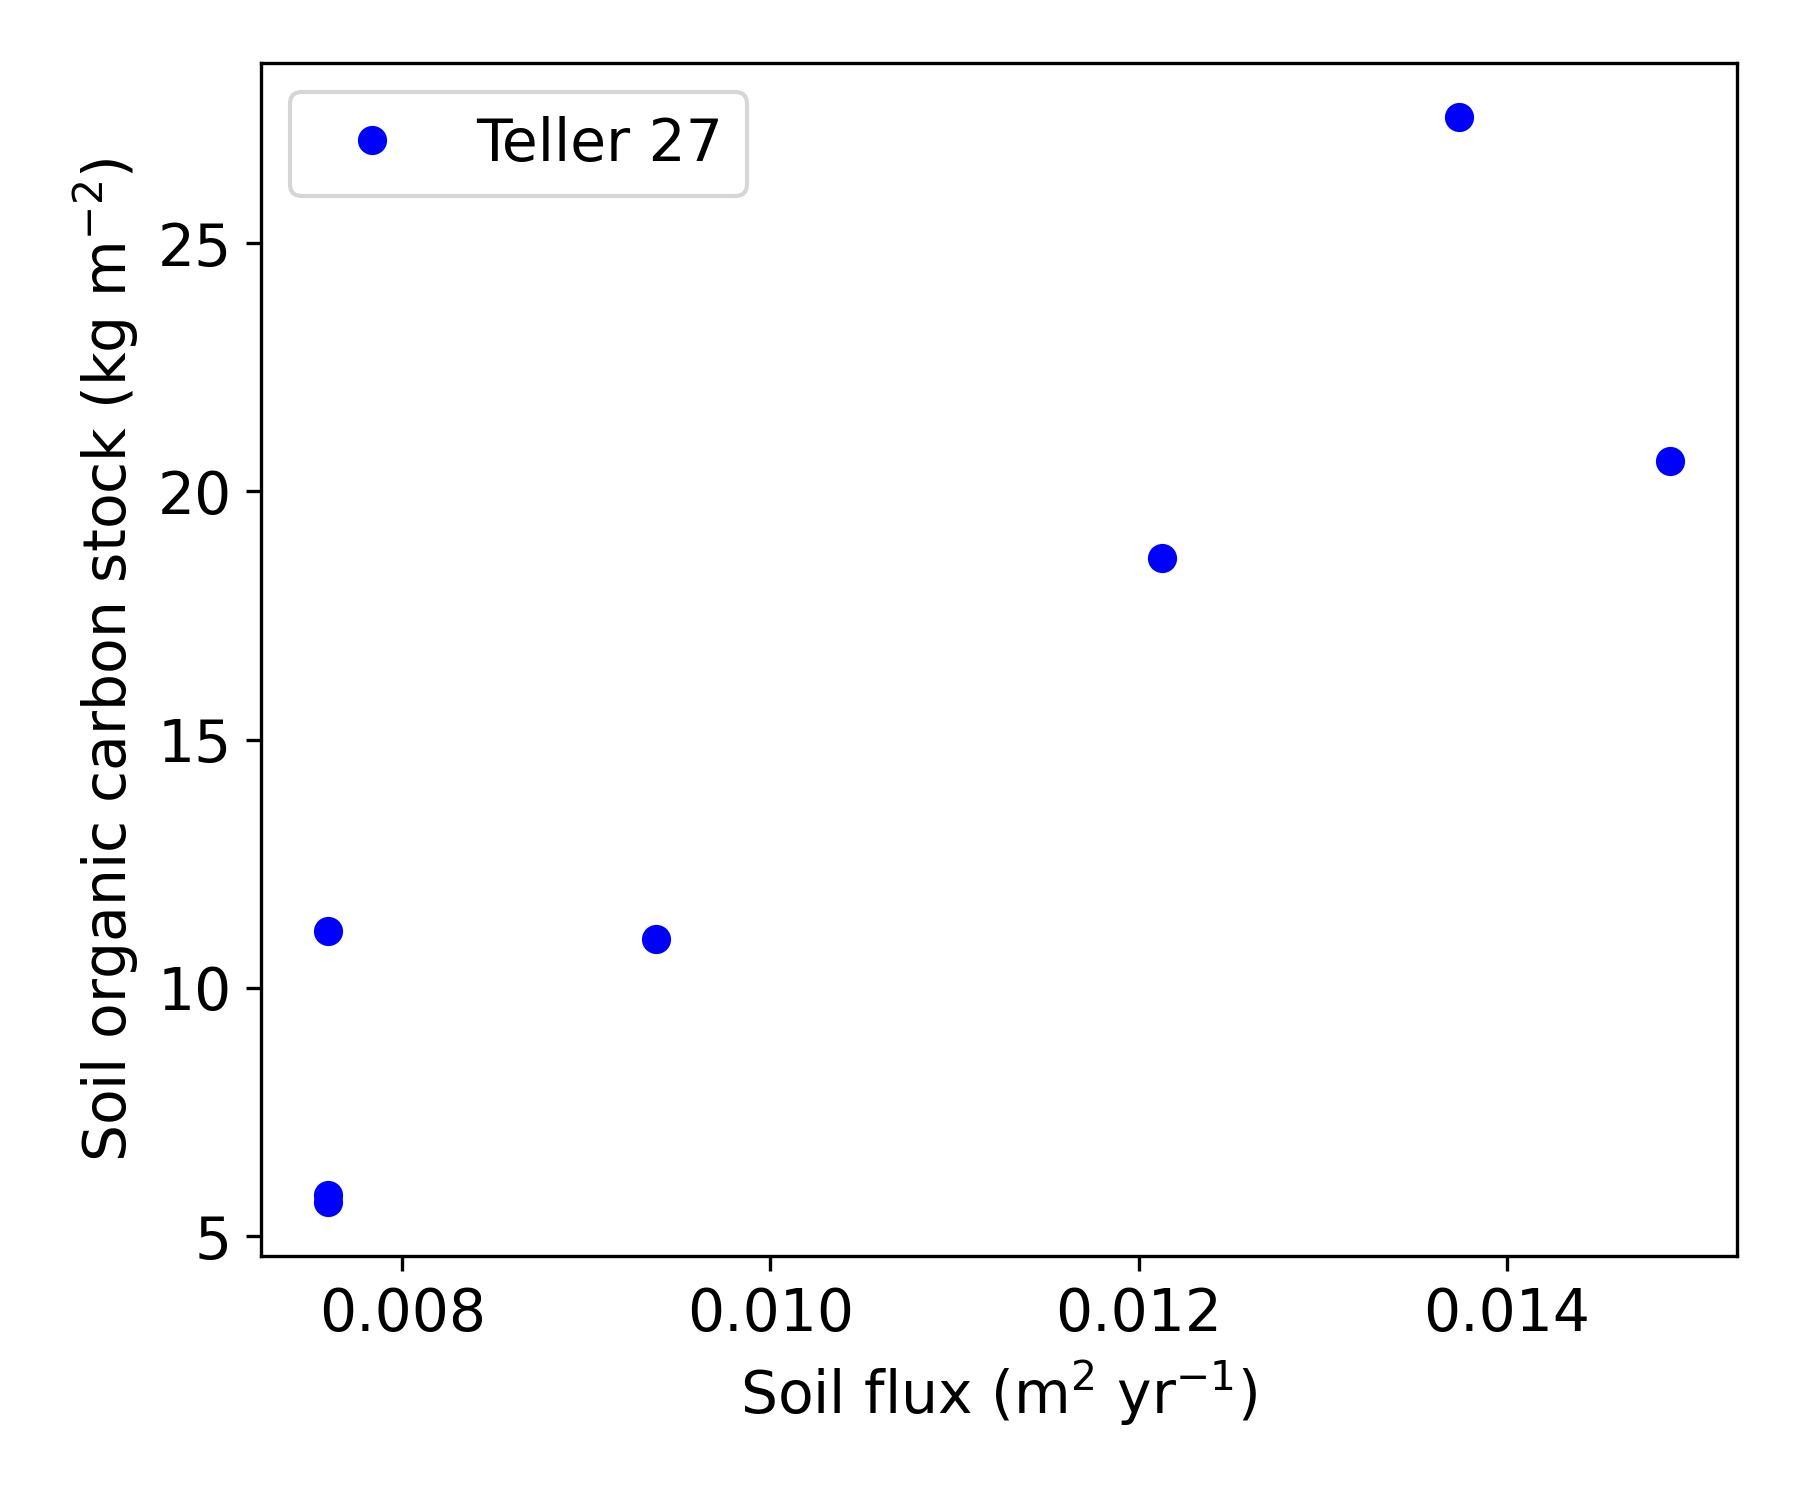
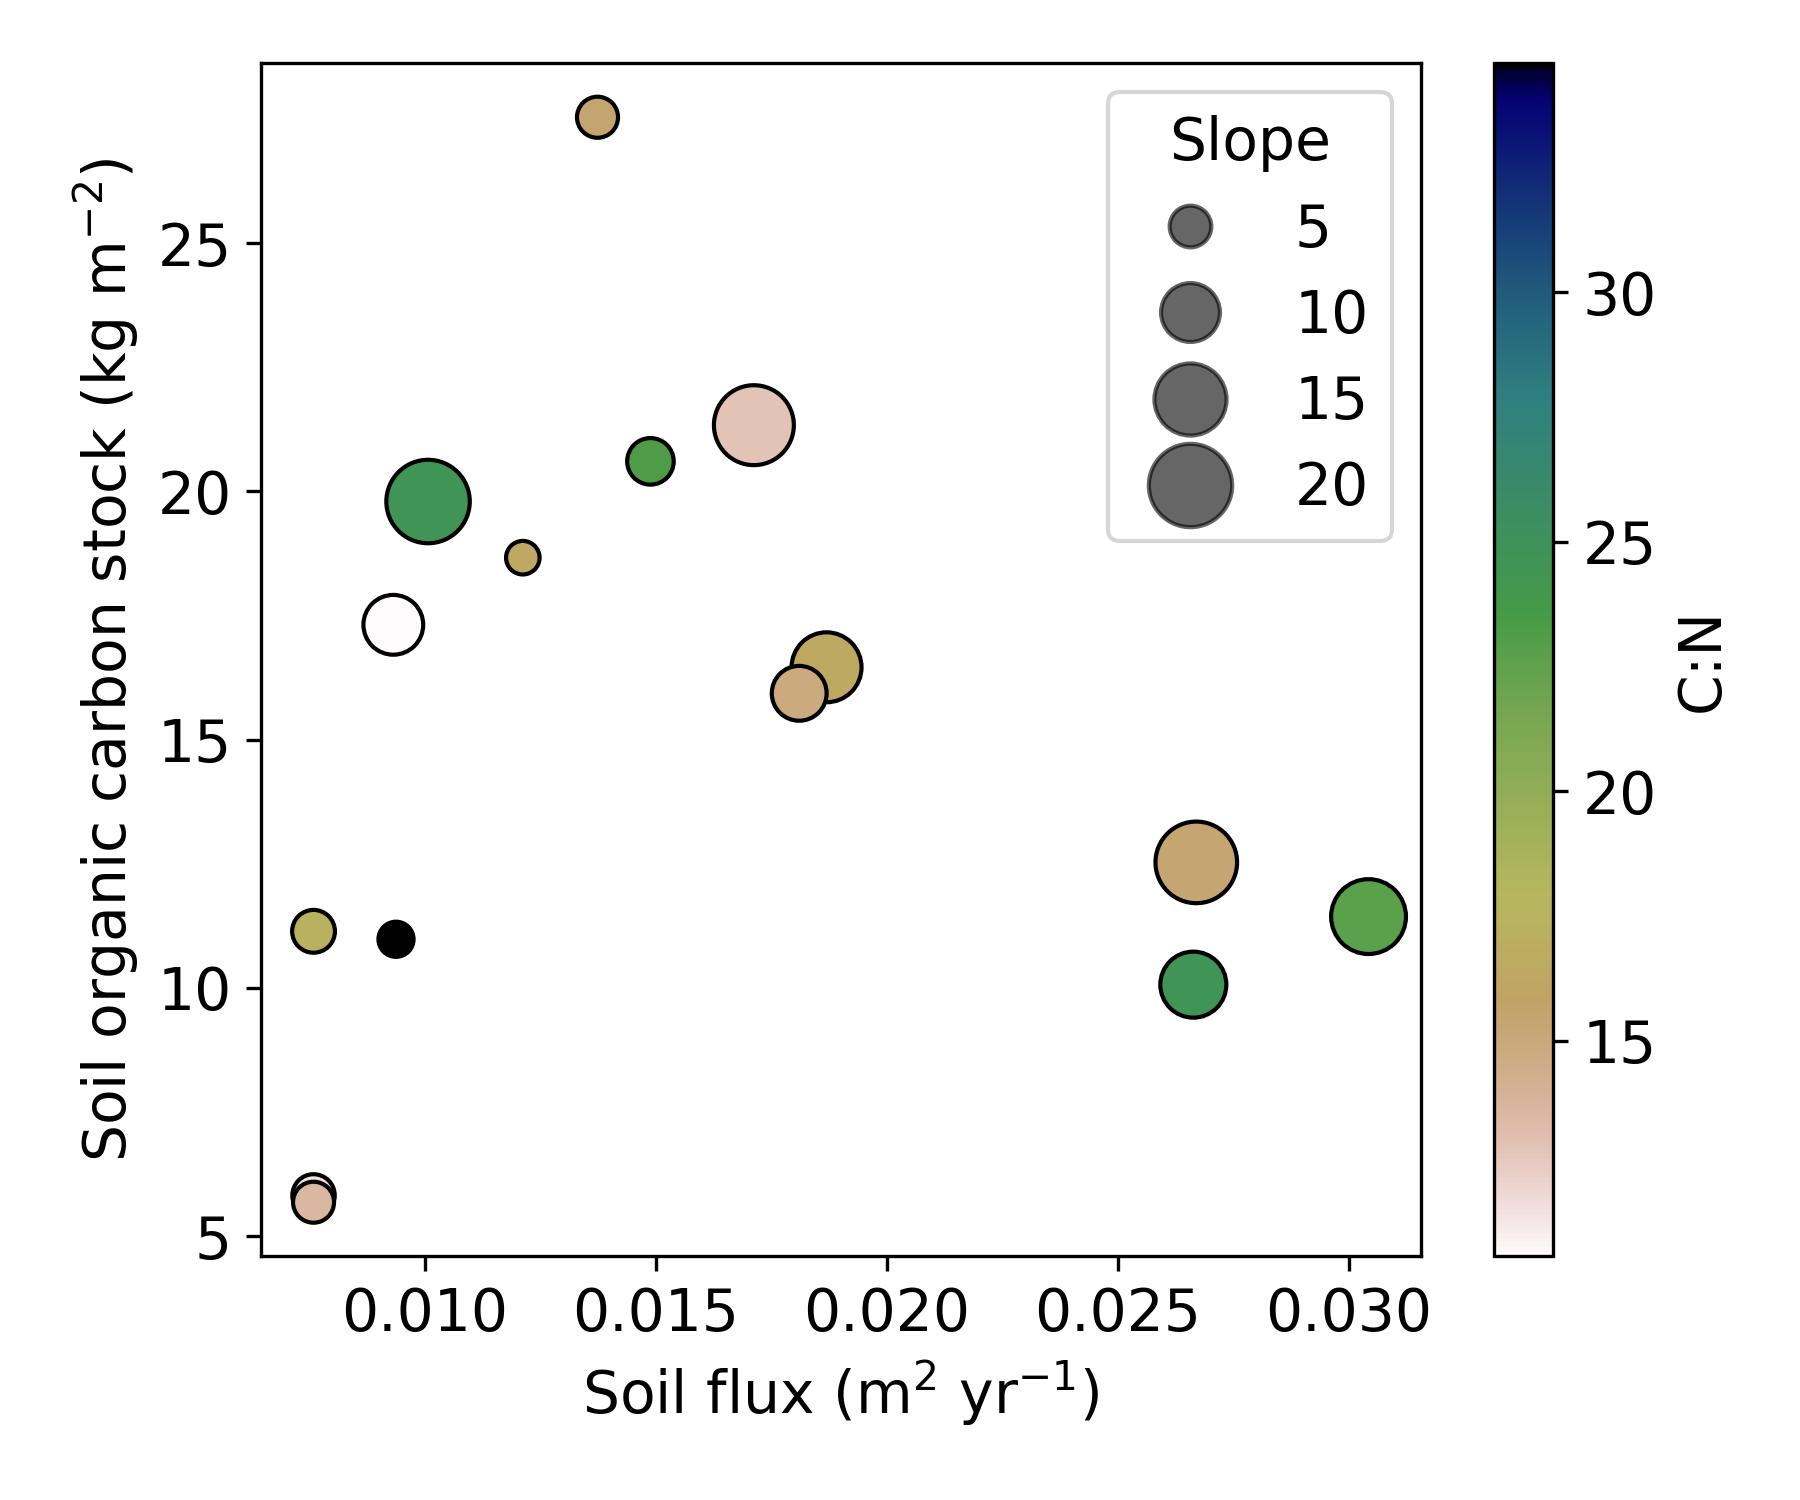
edits to main plotting figure script

diff --git a/pythonScripts/Stock_Flux_CN_figure.py b/pythonScripts/Stock_Flux_CN_figure.py
@@ -1,0 +1,83 @@
+import matplotlib.pyplot as plt
+from scipy.stats import linregress
+from scipy.optimize import curve_fit
+import pandas as pd
+import numpy as np
+plt.rcParams.update({'font.size': 14})
+df_sites = pd.read_csv('/Users/evanthaler/Documents/GitHub/CarbonStocksDisplacments/FinalCleanedFiles/wDisplacement/TL47TL27StocksDisplacement_multicurv.csv')
[1 lines of base64/hex data omitted]
+def lognormal_hump(x, a, mu, sigma):
+    return a * np.exp(-(np.log(x) - mu)**2 / (2 * sigma**2))
+def linear_exp(x, x0, y0, m, k):
+    return np.where(
+        x <= x0,
+        m * (x - x0) + y0,
+        y0 * np.exp(-k * (x - x0))
+    )
+
+def soil_prod_hump(x, a, b):
+    return a * x * np.exp(-b * x)
+def fitDispAllData(df,outfig,xcol='mean_disp_rate',ycol='Total_C_stock_kg_m2_0to50cm',ycollabel='Soil organic carbon stock (kg m$^{-2}$)',scat_col = 'C_N_ratio',scat_col_label = 'C:N',plotline=True):
+    x = df[xcol]*0.5
+    y = df[ycol]
+    x0_init = x[np.argmax(y)]# pick the y peak location for x
+    y0_init = y.max()
+    fig,ax = plt.subplots(figsize=(6,5))
+    if plotline:
+        
+
+        
+        mask = x > 0  # log requires positive x
+
+        p0 = [np.max(y), np.log(np.median(x)), 0.5]
+
+        params, cov = curve_fit(
+            lognormal_hump, x[mask], y[mask], p0=p0
+        )
+
+        xfit = np.linspace(x[mask].min(), x.max(), 200)
+        yfit = lognormal_hump(xfit, *params)
+        ax.plot(xfit, yfit, color='k', lw=2)
+
+
+    scat1 = ax.scatter(df_sites[xcol]*0.5,df_sites[ycol],c= df_sites[scat_col],s=df_sites['slope']*20,cmap='gist_earth_r',edgecolor='k')
+    #scat2 = ax.scatter(tl27_disp,tl27_ycol,c = tl27_scatcol, s=100,cmap='viridis')
+    cbar = plt.colorbar(scat1,label=scat_col_label)
+
+
+
+    handles, labels = scat1.legend_elements(prop="sizes", alpha=0.6, num=4)
+
+    # Convert labels back to slope (divide by 10)
+    # Strip LaTeX formatting and rescale
+    clean_labels = [
+        float(l.replace('$\\mathdefault{', '').replace('}$', '')) / 20
+        for l in labels
+    ]
+
+    ax.legend(handles, [f"{round(l)}" for l in clean_labels], title="Slope")
+
+    ax.set_ylabel(ycollabel)
+    ax.set_xlabel('Soil flux (m$^{2}$ yr$^{-1}$)')
+    plt.tight_layout()
+    #ax.legend()
+    plt.savefig(outfig,dpi=300)
+    plt.show()
+
+
+fitDispAllData(df_sites,f'{figoutdir}/TL27CstockDisplacementCombinedSites_flux_.jpg',plotline=False)
+
+
+
+# fig,ax=plt.subplots(figsize=(6,6))
+# ax.plot(df_sites.C_N_ratio,df_sites.Total_C_stock_kg_m2_0to50cm,'ok')
+# ax.set_ylabel('SOC stocks')
+# ax.set_xlabel('C:N')
+# plt.show()
+
+
+# fig,ax=plt.subplots(figsize=(6,6))
+# ax.plot(df_sites.mean_disp_rate*.5,df_sites.C_N_ratio,'ok')
+# ax.set_xlabel('flux')
+# ax.set_ylabel('C:N')
+# plt.show()

diff --git a/pythonScripts/CalculateSOCStocks.py b/pythonScripts/CalculateSOCStocks.py
@@ -2,18 +2,18 @@ import pandas as pd
 import numpy as np
 
 # === User-defined settings ===
-MAX_DEPTH_CM = 100  # only calculate stocks from 0 to this depth
+MAX_DEPTH_CM = 50  # only calculate stocks from 0 to this depth
 
 # === Load data ===
-data = pd.read_csv("/Users/evanthaler/Documents/permafrost/permafrostCarbon/CleanedLabData/tl47/t47_SOC_BulkDensity_2021Samples.csv")
+data = pd.read_csv("/Users/evanthaler/Documents/GitHub/CarbonStocksDisplacments/FinalCleanedFiles/KR/KR_CoreSamples_utmCoords_Corvars.csv")
 
 # === Output containers ===
 site_totals = []
 horizon_records = []
 
 # === Loop through each profile ===
-for site in data['Sample'].dropna().unique():
-    df_site = data[data['Sample'] == site].copy()
+for site in data['SampleLocationName'].dropna().unique():
+    df_site = data[data['SampleLocationName'] == site].copy()
 
     # 1. Extract bulk density measurements
     bd_df = df_site[df_site['BD_measurement_cm'].notna() & df_site['BulkDensity_gcm3'].notna()]
@@ -50,7 +50,7 @@ for site in data['Sample'].dropna().unique():
     # 7. Record each horizon
     for _, row in c_df.iterrows():
         horizon_records.append({
-            'Sample': site,
+            'SampleLocationName': site,
             'Top_cm': row['Top_cm'],
             'Bottom_cm': row['Bottom_cm'],
             'Thickness_cm': row['thickness_cm'],
@@ -61,14 +61,14 @@ for site in data['Sample'].dropna().unique():
 
     # 8. Total carbon for profile
     total_carbon = c_df['C_stock_kg_m2'].sum()
-    site_totals.append({'Sample': site, 'C_stock_kg_m2': total_carbon})
+    site_totals.append({'SampleLocationName': site, 'C_stock_kg_m2': total_carbon})
 
 # === Save outputs ===
 df_total = pd.DataFrame(site_totals)
 df_horizons = pd.DataFrame(horizon_records)
 
-df_total.to_csv("/Users/evanthaler/Documents/permafrost/permafrostCarbon/CleanedLabData/tl47/stocks/t47_SOC_BulkDensity_2021Samples_stocks.csv", index=False)
-df_horizons.to_csv("/Users/evanthaler/Documents/permafrost/permafrostCarbon/CleanedLabData/tl47/stocks/t47_SOC_BulkDensity_2021Samples_horizonstocks.csv", index=False)
+df_total.to_csv("/Users/evanthaler/Documents/GitHub/CarbonStocksDisplacments/FinalCleanedFiles/KR/KR_CoreSamples_stocks.csv", index=False)
+df_horizons.to_csv("/Users/evanthaler/Documents/GitHub/CarbonStocksDisplacments/FinalCleanedFiles/KR/KR_CoreSamples_horizonStocks.csv", index=False)
 
 print(f"Finished! Profiles truncated to {MAX_DEPTH_CM} cm and outputs saved.")
 
